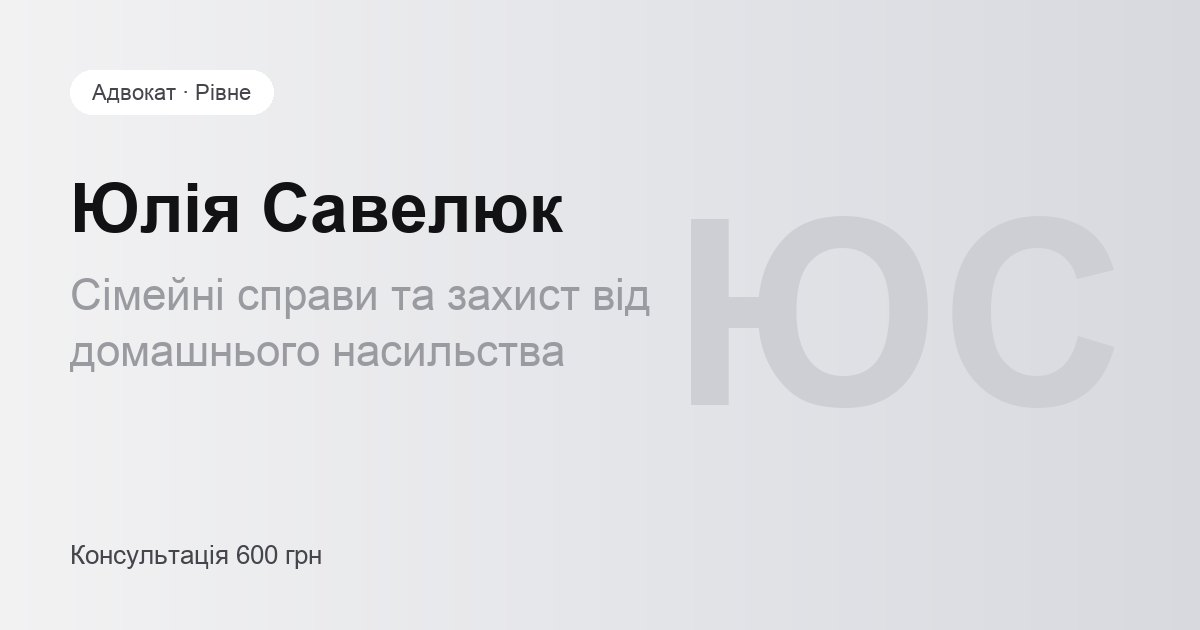
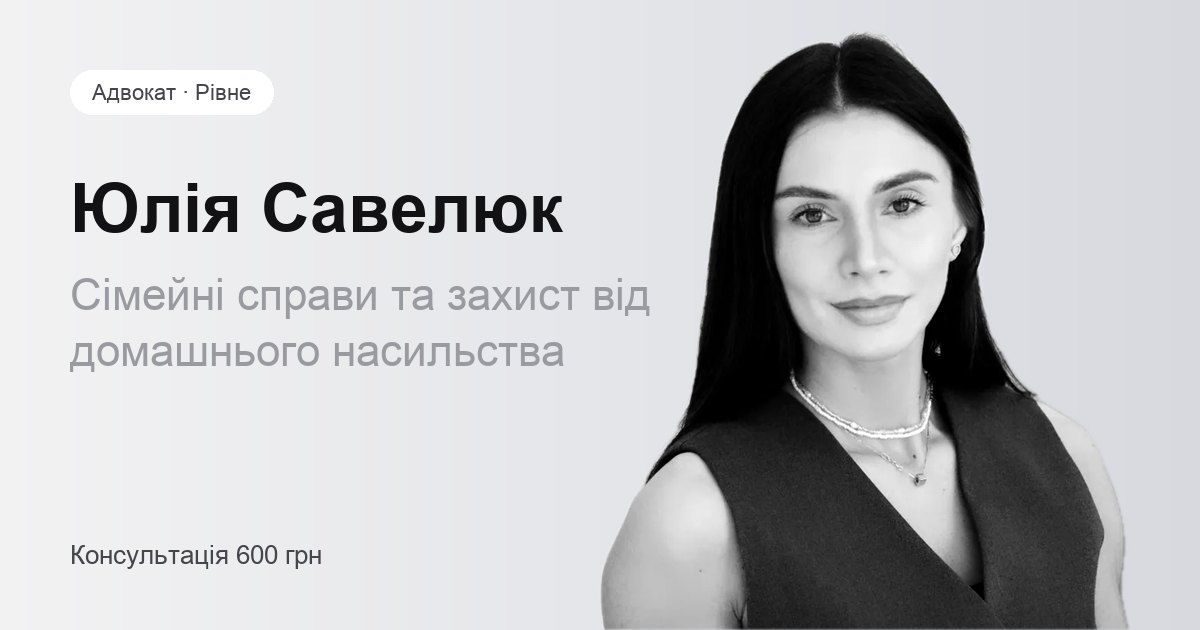
Савелюк: фото з Instagram замість монограми

Changed region(s): [[0.4933, 0.0302, 0.9558, 1.0]]

diff --git a/public/saveliuk/index.html b/public/saveliuk/index.html
@@ -22,8 +22,9 @@
   <link rel="preconnect" href="https://fonts.googleapis.com">
   <link rel="preconnect" href="https://fonts.gstatic.com" crossorigin>
   <link rel="stylesheet" href="https://fonts.googleapis.com/css2?family=Onest:wght@400;500;600&display=swap">
-  <link rel="stylesheet" href="/css/style.css?v=1795629996">
-  <script type="application/ld+json">{"@context": "https://schema.org", "@type": "Attorney", "name": "Юлія Савелюк", "url": "https://advokat-site.pages.dev/saveliuk/", "telephone": "+380000000000", "address": {"@type": "PostalAddress", "streetAddress": "вул. Соборна, 00, офіс 0", "addressLocality": "Рівне", "addressCountry": "UA"}, "areaServed": "Рівне", "knowsAbout": ["сімейні справи", "захист від домашнього насильства"]}</script>
+  <link rel="preload" as="image" href="/img/leads/saveliuk/cut-1100.webp" imagesrcset="/img/leads/saveliuk/cut-700.webp 700w, /img/leads/saveliuk/cut-1100.webp 1100w" imagesizes="(min-width: 1024px) 470px, 92vw">
+  <link rel="stylesheet" href="/css/style.css?v=1795630299">
+  <script type="application/ld+json">{"@context": "https://schema.org", "@type": "Attorney", "name": "Юлія Савелюк", "url": "https://advokat-site.pages.dev/saveliuk/", "telephone": "+380000000000", "address": {"@type": "PostalAddress", "streetAddress": "вул. Соборна, 00, офіс 0", "addressLocality": "Рівне", "addressCountry": "UA"}, "areaServed": "Рівне", "knowsAbout": ["сімейні справи", "захист від домашнього насильства"], "image": "https://advokat-site.pages.dev/img/leads/saveliuk/cut-1100.webp"}</script>
 </head>
 <body>
   <a class="skip" href="#main">Перейти до змісту</a>
@@ -71,7 +72,9 @@
             </dl>
           </div>
 
-          <div class="hero__mono" aria-hidden="true"><span>ЮС</span></div>
+          <div class="hero__person">
+            <img src="/img/leads/saveliuk/cut-1100.webp" srcset="/img/leads/saveliuk/cut-700.webp 700w, /img/leads/saveliuk/cut-1100.webp 1100w" sizes="(min-width: 1024px) 470px, 92vw" width="1100" height="1728" alt="Юлія Савелюк, адвокат" fetchpriority="high">
+          </div>
 
           <a class="glass" href="#contact">
             <span class="glass__text">
@@ -186,8 +189,8 @@
     <!-- 4. Про мене -->
     <section class="section" id="about" aria-labelledby="about-title">
       <div class="wrap about">
-        <div class="about__photo about__photo--mono">
-          <span class="about__mono" aria-hidden="true">ЮС</span>
+        <div class="about__photo">
+          <img src="/img/leads/saveliuk/cut-1100.webp" srcset="/img/leads/saveliuk/cut-700.webp 700w, /img/leads/saveliuk/cut-1100.webp 1100w" sizes="(min-width: 1024px) 40vw, 92vw" width="1100" height="1728" alt="Юлія Савелюк, адвокат" loading="lazy">
           <p class="about__badge"><span>Адвокат</span><b>з 2025 року</b></p>
         </div>
         <div class="about__body">
@@ -314,7 +317,7 @@
     </div>
   </div>
   <div class="memo__foot">
-    <span class="memo__avatar memo__avatar--mono">ЮС</span>
+    <span class="memo__avatar"><img src="/img/leads/saveliuk/cut-700.webp" width="700" height="1099" alt="" loading="lazy"></span>
     <p class="memo__note">Це загальні кроки. Що робити саме у вашому випадку, скажу на консультації.</p>
     <a class="btn btn--dark memo__cta" href="#contact" data-situation="Розлучення, коли є спільні діти">Записатись з цією ситуацією</a>
   </div>
@@ -334,7 +337,7 @@
     </div>
   </div>
   <div class="memo__foot">
-    <span class="memo__avatar memo__avatar--mono">ЮС</span>
+    <span class="memo__avatar"><img src="/img/leads/saveliuk/cut-700.webp" width="700" height="1099" alt="" loading="lazy"></span>
     <p class="memo__note">Це загальні кроки. Що робити саме у вашому випадку, скажу на консультації.</p>
     <a class="btn btn--dark memo__cta" href="#contact" data-situation="Аліменти: стягнути, змінити розмір або погасити борг">Записатись з цією ситуацією</a>
   </div>
@@ -354,7 +357,7 @@
     </div>
   </div>
   <div class="memo__foot">
-    <span class="memo__avatar memo__avatar--mono">ЮС</span>
+    <span class="memo__avatar"><img src="/img/leads/saveliuk/cut-700.webp" width="700" height="1099" alt="" loading="lazy"></span>
     <p class="memo__note">Це загальні кроки. Що робити саме у вашому випадку, скажу на консультації.</p>
     <a class="btn btn--dark memo__cta" href="#contact" data-situation="Поділ майна після розлучення">Записатись з цією ситуацією</a>
   </div>
@@ -374,7 +377,7 @@
     </div>
   </div>
   <div class="memo__foot">
-    <span class="memo__avatar memo__avatar--mono">ЮС</span>
+    <span class="memo__avatar"><img src="/img/leads/saveliuk/cut-700.webp" width="700" height="1099" alt="" loading="lazy"></span>
     <p class="memo__note">Це загальні кроки. Що робити саме у вашому випадку, скажу на консультації.</p>
     <a class="btn btn--dark memo__cta" href="#contact" data-situation="Терміновий захист: заборонний та обмежувальний припис">Записатись з цією ситуацією</a>
   </div>
@@ -394,7 +397,7 @@
     </div>
   </div>
   <div class="memo__foot">
-    <span class="memo__avatar memo__avatar--mono">ЮС</span>
+    <span class="memo__avatar"><img src="/img/leads/saveliuk/cut-700.webp" width="700" height="1099" alt="" loading="lazy"></span>
     <p class="memo__note">Це загальні кроки. Що робити саме у вашому випадку, скажу на консультації.</p>
     <a class="btn btn--dark memo__cta" href="#contact" data-situation="Психологічне та економічне насильство">Записатись з цією ситуацією</a>
   </div>
@@ -414,7 +417,7 @@
     </div>
   </div>
   <div class="memo__foot">
-    <span class="memo__avatar memo__avatar--mono">ЮС</span>
+    <span class="memo__avatar"><img src="/img/leads/saveliuk/cut-700.webp" width="700" height="1099" alt="" loading="lazy"></span>
     <p class="memo__note">Це загальні кроки. Що робити саме у вашому випадку, скажу на консультації.</p>
     <a class="btn btn--dark memo__cta" href="#contact" data-situation="Діти й насильство: місце проживання та спілкування">Записатись з цією ситуацією</a>
   </div>
@@ -438,6 +441,6 @@
     <button type="button" data-font="mix">Мікс</button>
   </div>
 
-  <script src="/js/main.js?v=1795629996" defer></script>
+  <script src="/js/main.js?v=1795630299" defer></script>
 </body>
 </html>
